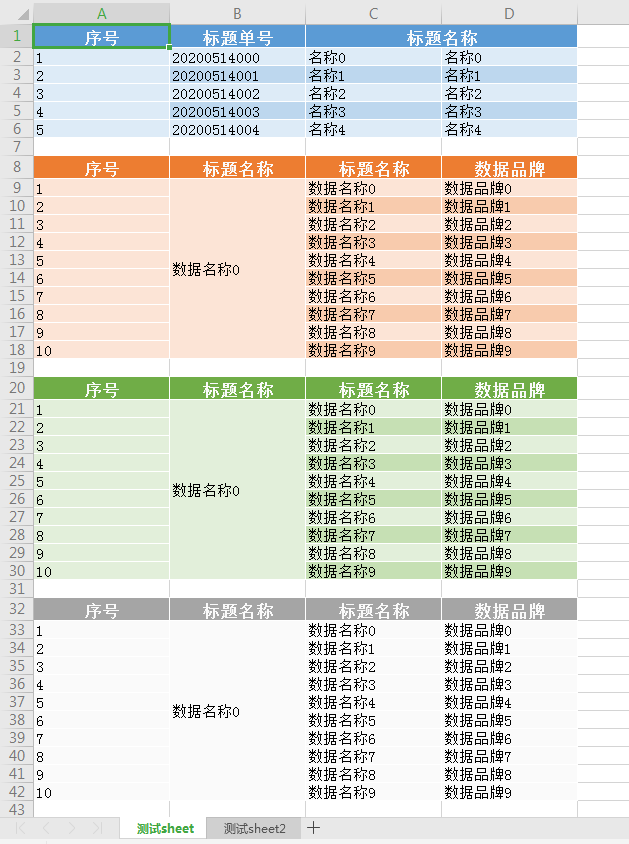
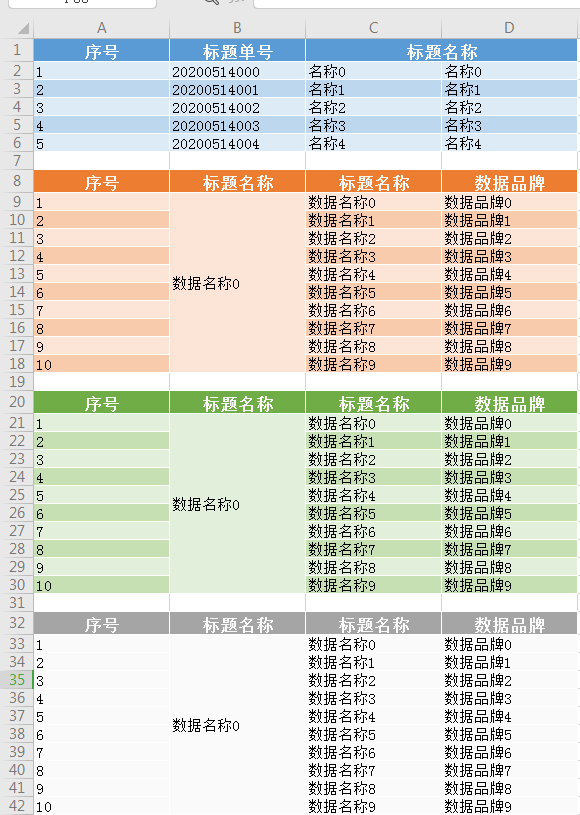
添加笔记

diff --git a/src/myjava/lambda/Lambda.java b/src/myjava/lambda/Lambda.java
@@ -103,6 +103,7 @@ public class Lambda {
             return age;
         }
 
+        @Override
         public String toString(){
             return "id="+this.id + ",name="+this.name+",age="+this.age;
         }

diff --git a/src/note/SpringBootTool/ExportExcelUtil.md b/src/note/SpringBootTool/ExportExcelUtil.md
@@ -2,13 +2,13 @@
 
 > 小伙伴们工作中有没有导出excel需求呀，这里为大家献上一个风骚的导出excel的工具类。具体怎么风骚，请看下文分析。
 
-### 项目环境：
+### 项目环境
  * SpringBoot: 2.2.6.RELEASE
  * JDK: 1.8
  * POI: 4.1.2
  * lombok: 1.16.18
 
-### 实现功能：
+### 实现功能
  * 导出简单的excel
  * 导出多sheet的excel
  * 导出多sheet页，每个sheet页多个表格区域
@@ -359,7 +359,12 @@ public class ExportExcelUtil {
             //产生序号，1,2,3,4,5...的递增序号，不需要，header去掉‘序号’就可以了
             if("序号".equals(excel.getHeaders().get(0))){
                 XSSFCell cell = row.createCell(0);
-                cell.setCellStyle(titleStyleOne);
+                // 设置隔行样式
+                if(i % 2 == 0){
+                    cell.setCellStyle(titleStyleOne);
+                }else{
+                    cell.setCellStyle(titleStyleTwo);
+                }
                 cell.setCellValue(i + 1 + "");
             }
 
